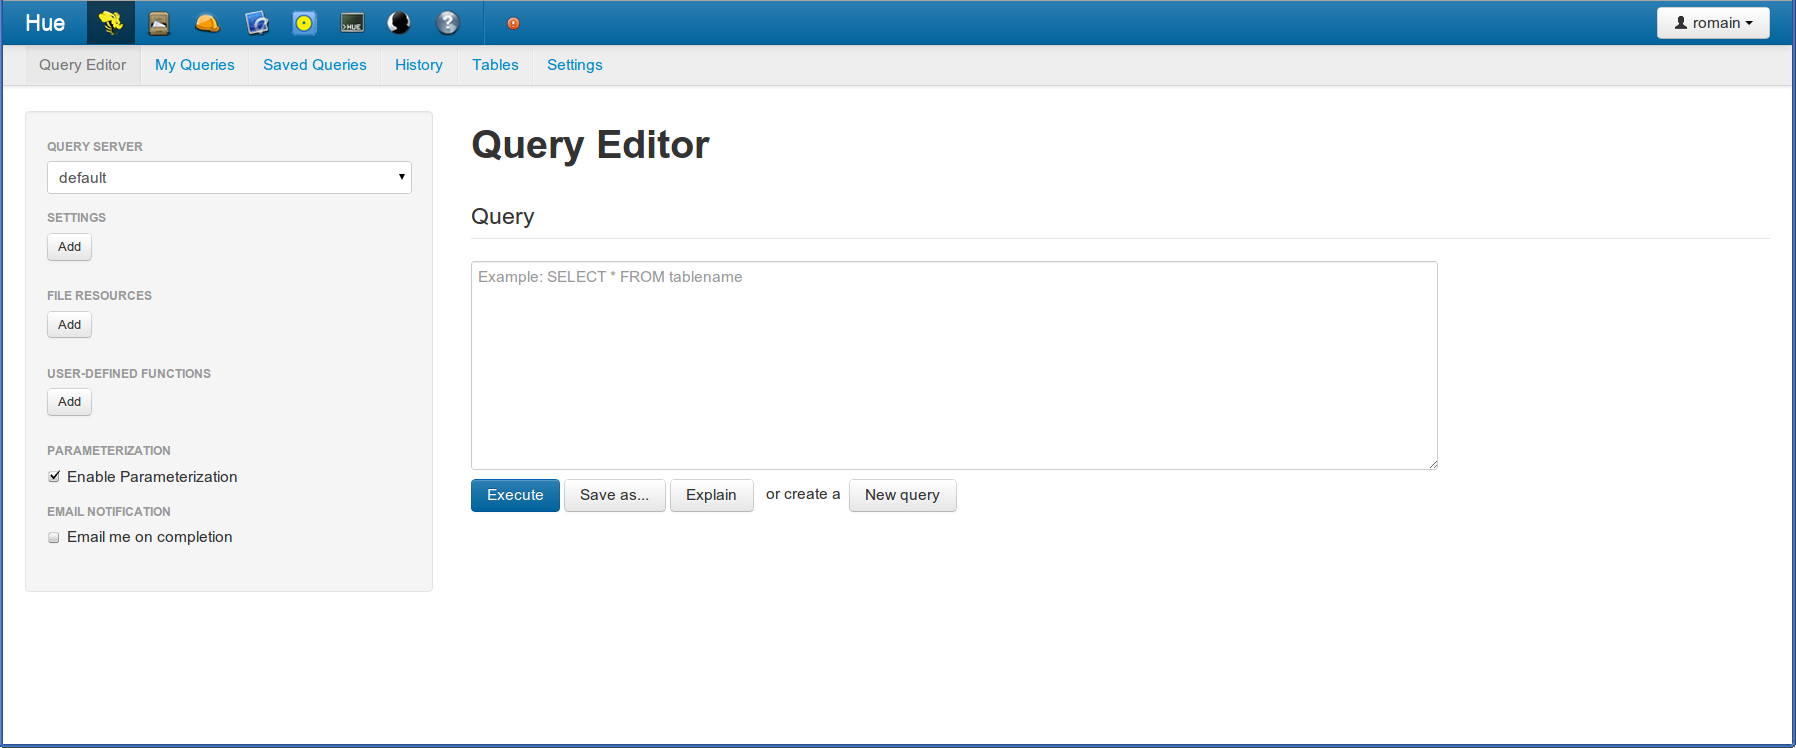
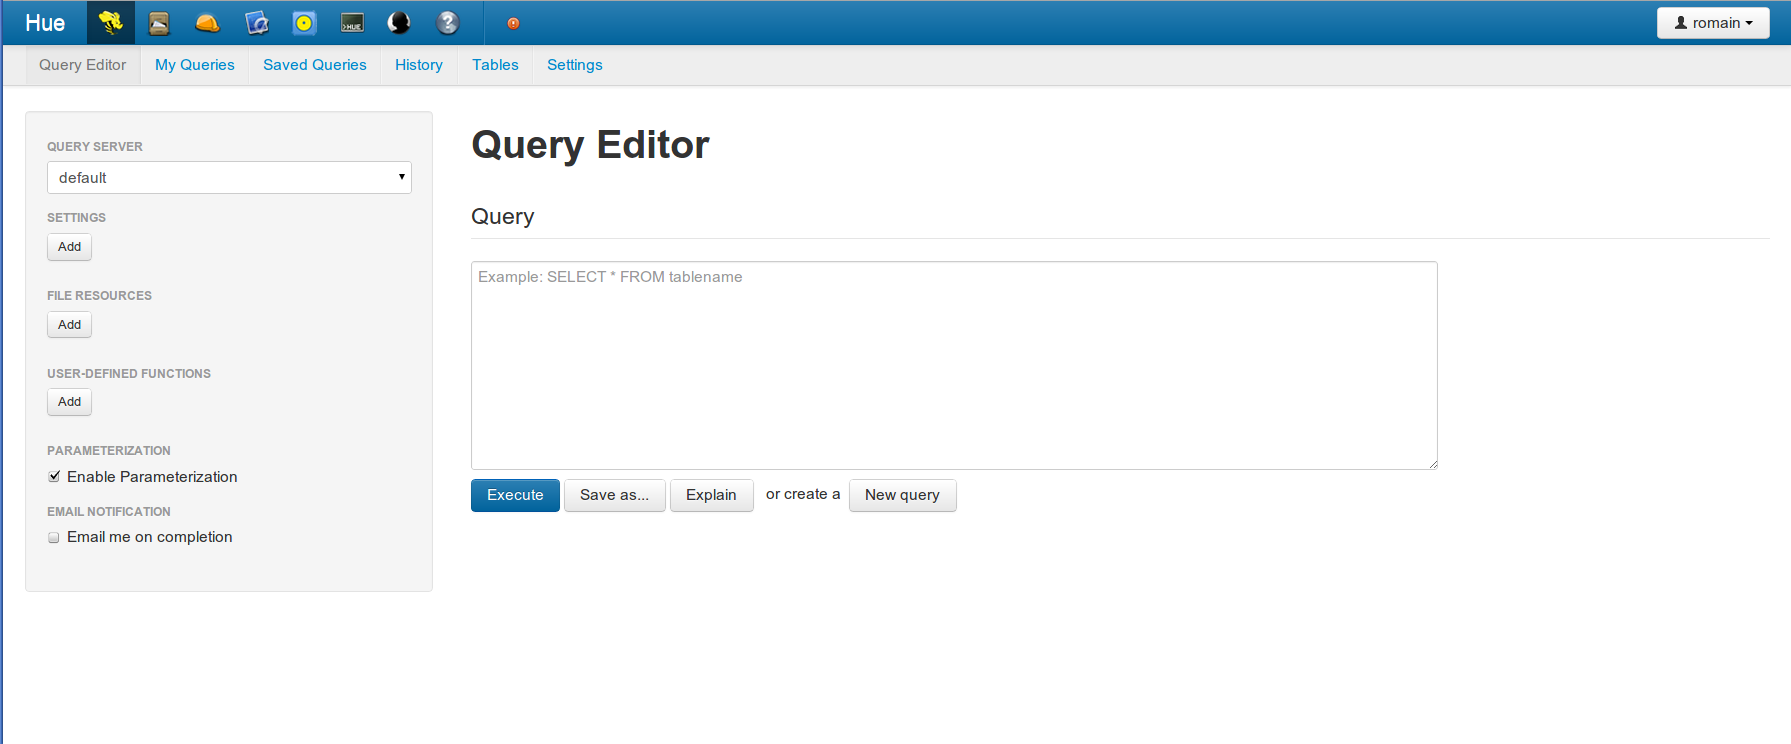
[site] Update site to 2.1 and improve design
Adding tabs
Converting to Bootstrap
Cropping pictures a bit

diff --git a/index.html b/index.html
@@ -1,187 +1,191 @@
 <!DOCTYPE html PUBLIC "-//W3C//DTD XHTML 1.0 Strict//EN"
-	"http://www.w3.org/TR/xhtml1/DTD/xhtml1-strict.dtd">
+  "http://www.w3.org/TR/xhtml1/DTD/xhtml1-strict.dtd">
 
 <html xmlns="http://www.w3.org/1999/xhtml" xml:lang="en" lang="en">
 <head>
-	<meta http-equiv="Content-Type" content="text/html; charset=utf-8"/>
+  <meta http-equiv="Content-Type" content="text/html; charset=utf-8"/>
 
-	<title>cloudera/hue @ GitHub</title>
-	
-	<style type="text/css">
-		body {
-  		margin-top: 1.0em;
-  		background-color: #ffffff;
-		  font-family: "Helvetica,Arial,FreeSans";
-  		color: #000000;
-    }
-    #container {
-      margin: 0 auto;
-      width: 1000px;
-    }
-		h1 { font-size: 3.8em; color: #1767b6; margin-bottom: 3px; }
-		h1 .small { font-size: 0.4em; }
-		h1 a { text-decoration: none }
-		h2 { font-size: 1.5em; color: #1767b6; }
-    h3 { text-align: center; color: #1767b6; }
-    a { color: #1767b6; }
-    .description { font-size: 1.2em; margin-bottom: 30px; margin-top: 30px; font-style: italic;}
-    .caption { text-align: center; margin-bottom: 20px; margin-top: 10px; font-style: italic;}
-    .download { float: right; }
-		pre { background: #000; color: #fff; padding: 15px;}
-    hr { border: 0; width: 80%; border-bottom: 1px solid #aaa}
-    .footer { text-align:center; padding-top:30px; padding-bottom:20px; font-style: italic; }
-	</style>
+  <title>Hue - Hadoop User Experience</title>
+
   <link href="static/ext/css/bootstrap.min.css" rel="stylesheet">
-
   <script src="static/ext/js/jquery/jquery-1.8.1.min.js"></script>
   <script src="static/ext/js/bootstrap.min.js"></script>
+
+  <style type="text/css">
+    h1 { font-size: 3.8em; color: #1767b6; margin-bottom: 3px; }
+    h1 .small { font-size: 0.4em; }
+    h1 a { text-decoration: none }
+    h2 { font-size: 1.5em; color: #1767b6; }
+    h3 { color: #1767b6; }
+    a { color: #1767b6; }
+    .description { font-size: 1.2em; margin-bottom: 30px; margin-top: 30px; font-style: italic;}
+  </style>
 </head>
 
 <body>
-  <a href="http://github.com/cloudera/hue"><img style="position: absolute; top: 0; right: 0; border: 0;" src="http://s3.amazonaws.com/github/ribbons/forkme_right_darkblue_121621.png" alt="Fork me on GitHub" /></a>
+  <a href="http://github.com/cloudera/hue">
+    <img style="position: absolute; top: 0; right: 0; border: 0;" src="http://s3.amazonaws.com/github/ribbons/forkme_right_darkblue_121621.png" alt="Fork me on GitHub" />
+  </a>
 
-  <div id="container">
+  <div class="container-fluid">
+    <div class="row-fluid">
+      <div class="span2"></div>
+      <div class="span8">
+        <h1><a href="http://github.com/cloudera/hue">hue</a>
+          <a href="http://github.com/cloudera/hue"><span class="small">Hadoop User Experience</span></a>
+        </h1>
 
-    <h1><a href="http://github.com/cloudera/hue">hue</a>
-      <a href="http://github.com/cloudera/hue"><span class="small">Hadoop User Experience</span></a></h1>
+        <div class="description">
+          Hue is a web-based interface for making it easier to use Apache Hadoop. It features a file browser for HDFS, an Oozie Application for creating workflows and coordinators, a job designer/browser for MapReduce, a Hive UI, a Shell and more.
+        </div>
 
-    <div class="description">
-      Hue is a web-based interface for making it easier to use Apache Hadoop. It features a file browser for HDFS, an Oozie Application for creating workflows and coordinators, a job designer/browser for MapReduce, a Hive UI, a Shell and more.
-    </div>
-
-    <div>
-      <div id="myCarousel" class="carousel slide">
-        <!-- Carousel items -->
-        <div class="carousel-inner">
-          <div class="active item">
-            <img class="image" src="static/images/beeswax.png"/>
-            <div class="carousel-caption">
-              <h4>Beeswax</h4>
-              <p>The Beeswax application enables you to perform queries on Apache Hive, a data warehousing system designed to work with Hadoop. You can create Hive tables, load data, run and manage Hive queries, and download the results in a Microsoft Office Excel worksheet file or a comma-separated values file.</p>
+        <div id="myCarousel" class="carousel slide">
+          <div class="carousel-inner">
+            <div class="active item">
+              <img class="image" src="static/images/beeswax.png"/>
+              <div class="carousel-caption">
+                <h4>Beeswax</h4>
+                <p>The Beeswax application enables you to perform queries on Apache Hive, a data warehousing system designed to work with Hadoop. You can create Hive tables, load data, run and manage Hive queries, and download the results in a Microsoft Office Excel worksheet file or a comma-separated values file.</p>
+              </div>
+            </div>
+           <div class="item">
+             <img class="image" src="static/images/fb.png"/>
+              <div class="carousel-caption">
+                <h4>File Browser</h4>
+                <p>The File Browser application lets you browse and manipulate files and directories in the Hadoop Distributed File System (HDFS) while using Hue.</p>
+              </div>
+           </div>
+           <div class="item">
+             <img class="image" src="static/images/oozie.png"/>
+              <div class="carousel-caption">
+                <h4>Oozie Editor/Dashboard</h4>
+                <p>The Oozie Editor/Dashboard application allows you to define Oozie workflow and coordinator applications, run workflow and coordinator jobs, and view the status of jobs.</p>
+              </div>
+           </div>
+           <div class="item">
+             <img class="image" src="static/images/shell.png"/>
+              <div class="carousel-caption">
+                <h4>Shell</h4>
+                <p>The Hue Shell application provides access to the Pig and HBase command-line shells. The Shell application is designed to have the same look and feel as a Unix terminal. In addition to the shells configured by default, it is possible to include almost any process that exposes a command-line interface as an option in this Hue application.</p>
+              </div>
+           </div>
+           <div class="item">
+             <img class="image" src="static/images/jb.png"/>
+              <div class="carousel-caption">
+                <h4>Job Browser</h4>
+                <p>The Job Browser application lets you to examine the Hadoop MapReduce jobs running on your Hadoop cluster. Job Browser presents the job and tasks in layers. The top layer is a list of jobs, and you can link to a list of that job's tasks. You can then view a task's attempts and the properties of each attempt, such as state, start and end time, and output size. To troubleshoot failed jobs, you can also view the logs of each attempt.</p>
+              </div>
+           </div>
+           <div class="item">
+             <img class="image" src="static/images/jobsub.png"/>
+              <div class="carousel-caption">
+                <h4>Job Designer</h4>
+                <p>The Job Designer application enables you to create and submit Hadoop MapReduce jobs to the Hadoop cluster. You can include variables with your jobs to enable you and other users to enter values for the variables when they run your job. The Job Designer supports MapReduce, streaming, and Java jobs.</p>
+              </div>
+           </div>
+           <div class="item">
+             <img class="image" src="static/images/useradmin.png"/>
+              <div class="carousel-caption">
+                <h4>User Admin</h4>
+                <p>The User Admin application lets an administrator add, delete, and manage Hue user accounts and groups, and configure group permissions. The permissions allow users, based on their group membership, to launch Hue applications and use application features. You can add users and groups individually, or import them from an LDAP directory.</p>
+              </div>
             </div>
           </div>
-         <div class="item">
-           <img class="image" src="static/images/fb.png"/>
-            <div class="carousel-caption">
-              <h4>File Browser</h4>
-              <p>The File Browser application lets you browse and manipulate files and directories in the Hadoop Distributed File System (HDFS) while using Hue.</p>
-            </div>
-         </div>
-         <div class="item">
-           <img class="image" src="static/images/shell.png"/>
-            <div class="carousel-caption">
-              <h4>Shell</h4>
-              <p>The Hue Shell application provides access to the Pig and HBase command-line shells. The Shell application is designed to have the same look and feel as a Unix terminal. In addition to the shells configured by default, it is possible to include almost any process that exposes a command-line interface as an option in this Hue application.</p>
-            </div>
-         </div>
-         <div class="item">
-           <img class="image" src="static/images/jb.png"/>
-            <div class="carousel-caption">
-              <h4>Job Browser</h4>
-              <p>The Job Browser application lets you to examine the Hadoop MapReduce jobs running on your Hadoop cluster. Job Browser presents the job and tasks in layers. The top layer is a list of jobs, and you can link to a list of that job's tasks. You can then view a task's attempts and the properties of each attempt, such as state, start and end time, and output size. To troubleshoot failed jobs, you can also view the logs of each attempt.</p>
-            </div>
-         </div>
-         <div class="item">
-           <img class="image" src="static/images/jobsub.png"/>
-            <div class="carousel-caption">
-              <h4>Job Designer</h4>
-              <p>The Job Designer application enables you to create and submit Hadoop MapReduce jobs to the Hadoop cluster. You can include variables with your jobs to enable you and other users to enter values for the variables when they run your job. The Job Designer supports MapReduce, streaming, and Java jobs.</p>
-            </div>
-         </div>
-         <div class="item">
-           <img class="image" src="static/images/oozie.png"/>
-            <div class="carousel-caption">
-              <h4>Oozie Editor/Dashboard</h4>
-              <p>The Oozie Editor/Dashboard application allows you to define Oozie workflow and coordinator applications, run workflow and coordinator jobs, and view the status of jobs.</p>
-            </div>
-         </div>
-         <div class="item">
-           <img class="image" src="static/images/useradmin.png"/>
-            <div class="carousel-caption">
-              <h4>User Admin</h4>
-              <p>The User Admin application lets an administrator add, delete, and manage Hue user accounts and groups, and configure group permissions. The permissions allow users, based on their group membership, to launch Hue applications and use application features. You can add users and groups individually, or import them from an LDAP directory.</p>
-            </div>
-         </div>
+          <a class="carousel-control left" href="#myCarousel" data-slide="prev">&lsaquo;</a>
+          <a class="carousel-control right" href="#myCarousel" data-slide="next">&rsaquo;</a>
+        </div>
 
-       </div>
-       <!-- Carousel nav -->
-       <a class="carousel-control left" href="#myCarousel" data-slide="prev">&lsaquo;</a>
-       <a class="carousel-control right" href="#myCarousel" data-slide="next">&rsaquo;</a>
-     </div>
-   </div>
+        <ul class="nav nav-tabs">
+          <li class="active">
+            <a href="#releases" data-toggle="tab"><h2>Releases</h2></a>
+          </li>
+          <li>
+            <a href="#source" data-toggle="tab"><h2>Source</h2></a>
+          </li>
+          <li>
+            <a href="#community" data-toggle="tab"><h2>Community</h2></a>
+          </li>
+        </ul>
 
-    <h1>Releases</h1>
+        <div class="tab-content">
+          <div class="tab-pane active" id="releases">
+            <h3 id="releases-2.1.0">Hue 2.1.0 - Oct 2, 2012</h3>
+            <p>Hue now provides an Apache Oozie application for creating workflows of Apache MapReduce, Apache Pig, Apache Hive, Apache Sqoop, Java, Shell, Ssh and Streaming jobs and scheduling them repetitively. Hue is now available in German, Spanish, French, Japanese, Korean, Portuguese, Brazilian and simplified Chinese.<br/> It works with <a href="https://ccp.cloudera.com/display/CDH4DOC/CDH4+Quick+Start+Guide">Cloudera's Distribution for Apache Hadoop (CDH) version 4.1</a>.</p>
+            <ul>
+              <li><a href="docs-2.1.0/index.html">Documentation</a></li>
+              <li><a href="http://github.com/downloads/cloudera/hue/hue-2.1.0.tgz">Download tarball</a></li>
+              <li><a href="https://ccp.cloudera.com/display/CDH4DOC/Hue+Installation#HueInstallation-InstallingHue">Install packages</a></li>
+            </ul>
 
-    <h2>Hue 2.1.0</h2>
-    <p>Hue now provides an Apache Oozie application for creating workflows of Apache MapReduce, Apache Pig, Apache Hive, Apache Sqoop, Java, Shell, Ssh and Streaming jobs and scheduling them repetitively. Hue is now available in German, Spanish, French, Japanese, Korean, Portuguese, Brazilian and simplified Chinese.<br/> It works with <a href="https://ccp.cloudera.com/display/CDH4DOC/CDH4+Quick+Start+Guide">Cloudera's Distribution for Apache Hadoop (CDH) version 4.1</a>.</p>
-    <ul>
-      <li><a href="docs-2.1.0/index.html">Documentation</a></li>
-      <li><a href="http://github.com/downloads/cloudera/hue/hue-2.1.0.tgz">Download release tarball</a></li>
-    </ul>
+            <h3>Hue 2.0.1 - June 4, 2012</h3>
+            <p>Hue 2.0.1 is a major upgrade with many fixes and key new features. The frontend has been re-implemented, LDAP (OpenLDAP and Active Directory) and per-application authorization are supported, a Shell application was added.<br/> It works with <a href="https://ccp.cloudera.com/display/CDH4DOC/CDH4+Quick+Start+Guide">Cloudera's Distribution for Apache Hadoop (CDH) version 4</a>.</p>
+            <ul>
+              <li><a href="docs-2.0.1/index.html">Documentation</a></li>
+              <li><a href="http://github.com/downloads/cloudera/hue/hue-2.0.1.tgz">Download tarball</a></li>
+            </ul>
 
-    <h2>Hue 2.0.1</h2>
-    <p>Hue 2.0.1 is a major upgrade with many fixes and key new features. The frontend has been re-implemented, LDAP (OpenLDAP and Active Directory) and per-application authorization are supported, a Shell application was added.<br/> It works with <a href="https://ccp.cloudera.com/display/CDH4DOC/CDH4+Quick+Start+Guide">Cloudera's Distribution for Apache Hadoop (CDH) version 4</a>.</p>
-    <ul>
-      <li><a href="docs-2.0.1/index.html">Documentation</a></li>
-      <li><a href="http://github.com/downloads/cloudera/hue/hue-2.0.1.tgz">Download release tarball</a></li>
-    </ul>
+            <h3>Hue 1.2.0 - Feb 21, 2011</h3>
+            <p>Hue 1.2.0 is a minor release, largely focused on bug fixes and compatibility with <a href="https://ccp.cloudera.com/display/CDHDOC/CDH3+Quick+Start+Guide">CDH3</a>.</p>
+            <ul>
+              <li><a href="docs-1.2.0/index.html">Documentation</a></li>
+              <li><a href="http://github.com/downloads/cloudera/hue/hue-1.2.0.tgz">Download tarball</a></li>
+            </ul>
 
-    <h2>Hue 1.2.0</h2>
-    <p>Hue 1.2.0 is a minor release, largely focused on bug fixes and compatibility with <a href="https://ccp.cloudera.com/display/CDHDOC/CDH3+Quick+Start+Guide">CDH3</a>.</p>
-    <ul>
-      <li><a href="docs-1.2.0/index.html">Documentation</a></li>
-      <li><a href="http://github.com/downloads/cloudera/hue/hue-1.2.0.tgz">Download release tarball</a></li>
-    </ul>
+           <h3>Hue 1.1.0 - Oct 11, 2010</h3>
+            <p>Hue 1.1.0 supports Kerberos integration with using a secured Hadoop
+            cluster. It works with <a href="https://ccp.cloudera.com/display/CDHDOC/CDH3+Quick+Start+Guide">CDH3</a>.</p>
+            <ul>
+              <li><a href="docs-1.1.0/index.html">Documentation</a></li>
+              <li><a href="http://github.com/downloads/cloudera/hue/hue-1.1.0.tgz">Download tarball</a></li>
+            </ul>
 
-   <h2>Hue 1.1.0</h2>
-    <p>Hue 1.1.0 supports Kerberos integration with using a secured Hadoop
-    cluster. It works with <a href="https://ccp.cloudera.com/display/CDHDOC/CDH3+Quick+Start+Guide">CDH3</a>.</p>
-    <ul>
-      <li><a href="docs-1.1.0/index.html">Documentation</a></li>
-      <li><a href="http://github.com/downloads/cloudera/hue/hue-1.1.0.tgz">Download release tarball</a></li>
-    </ul>
+            <h3>Hue 1.0.1 - Aug 20, 2010</h3>
+            <p>Hue 1.0.1 works with a traditional Hadoop cluster that does not have
+            security features.</p>
+            <ul>
+              <li><a href="docs-1.0.1/index.html">Documentation</a></li>
+              <li><a href="http://github.com/downloads/cloudera/hue/hue-1.0.1.tgz">Download tarball</a></li>
+            </ul>
+          </div>
 
-    <h2>Hue 1.0.1</h2>
-    <p>Hue 1.0.1 works with a traditional Hadoop cluster that does not have
-    security features.<p>
-    <ul>
-      <li><a href="docs-1.0.1/index.html">Documentation</a></li>
-      <li><a href="http://github.com/downloads/cloudera/hue/hue-1.0.1.tgz">Download release tarball</a></li>
-    </ul>
+          <div class="tab-pane" id="source">
+            <h3>Download</h3>
+            <ul>
+              <li>
+                Download Hue's project source in either
+                <a href="http://github.com/cloudera/hue/zipball/master">zip</a> or
+                <a href="http://github.com/cloudera/hue/tarball/master">tar</a> formats.
+              </li>
+              <li>
+                Get the source code on GitHub : <a href="http://github.com/cloudera/hue">cloudera/hue</a>
+              </li>
+              <li>Clone the project with <a href="http://git-scm.com">Git</a>
+                by running:
+                <div class="well well-small">$ git clone git://github.com/cloudera/hue</div>
+              </li>
+            </ul>
 
-    <h1>Open Source</h1>
+            <h3>License</h3>
+            <p>Apache License v2.0
+               <br/>
+               <a href="http://www.apache.org/licenses/LICENSE-2.0">http://www.apache.org/licenses/LICENSE-2.0</a>
+            </p>
+          </div>
 
-    <h2>License</h2>
-    <p>Apache License v2.0
-       </br>
-       <a href="http://www.apache.org/licenses/LICENSE-2.0">http://www.apache.org/licenses/LICENSE-2.0</a>
-   </p>
+          <div class="tab-pane" id="community">
+            <h3>Community</h3>
+            <ul>
+              <li><a href="http://groups.google.com/a/cloudera.org/group/hue-user">Hue users</a></li>
+              <li><a href="http://groups.google.com/a/cloudera.org/group/hue-dev">Hue developers</a></li>
+              <li><a href="https://issues.cloudera.org/browse/HUE">JIRA</a></li>
+              <li><a href="https://review.cloudera.org/dashboard/?view=to-group&group=hue">Code Reviews</a></li>
+            </ul>
+          </div>
+        </div>
 
-    <h2>Source Download</h2>
-    <ul>
-      <li>
-        You can download Hue's project source in either
-        <a href="http://github.com/cloudera/hue/zipball/master">zip</a> or
-        <a href="http://github.com/cloudera/hue/tarball/master">tar</a> formats.
-      </li>
-      <li>You can also clone the project with <a href="http://git-scm.com">Git</a>
-        by running:
-        <pre>$ git clone git://github.com/cloudera/hue</pre>
-      </li>
-    </ul>
-
-    <h2>Resources</h2>
-    <ul>
-      <li><a href="mailto:hue-user@cloudera.org">Hue users</a> (<a href="http://groups.google.com/a/cloudera.org/group/hue-user">subscribe</a>)</li>
-      <li><a href="mailto:hue-dev@cloudera.org">Hue developers</a> (<a href="http://groups.google.com/a/cloudera.org/group/hue-dev">subscribe</a>)</li>
-      <li><a href="https://issues.cloudera.org/browse/HUE">JIRA</a></li>
-      <li><a href="https://review.cloudera.org/dashboard/?view=to-group&group=hue">Code Reviews</a></li>
-    </ul>
-
-    <div class="footer">
-      get the source code on GitHub : <a href="http://github.com/cloudera/hue">cloudera/hue</a>
+        <div class="span2"></div>
+      </div>
     </div>
-
   </div>
 </body>
 </html>
